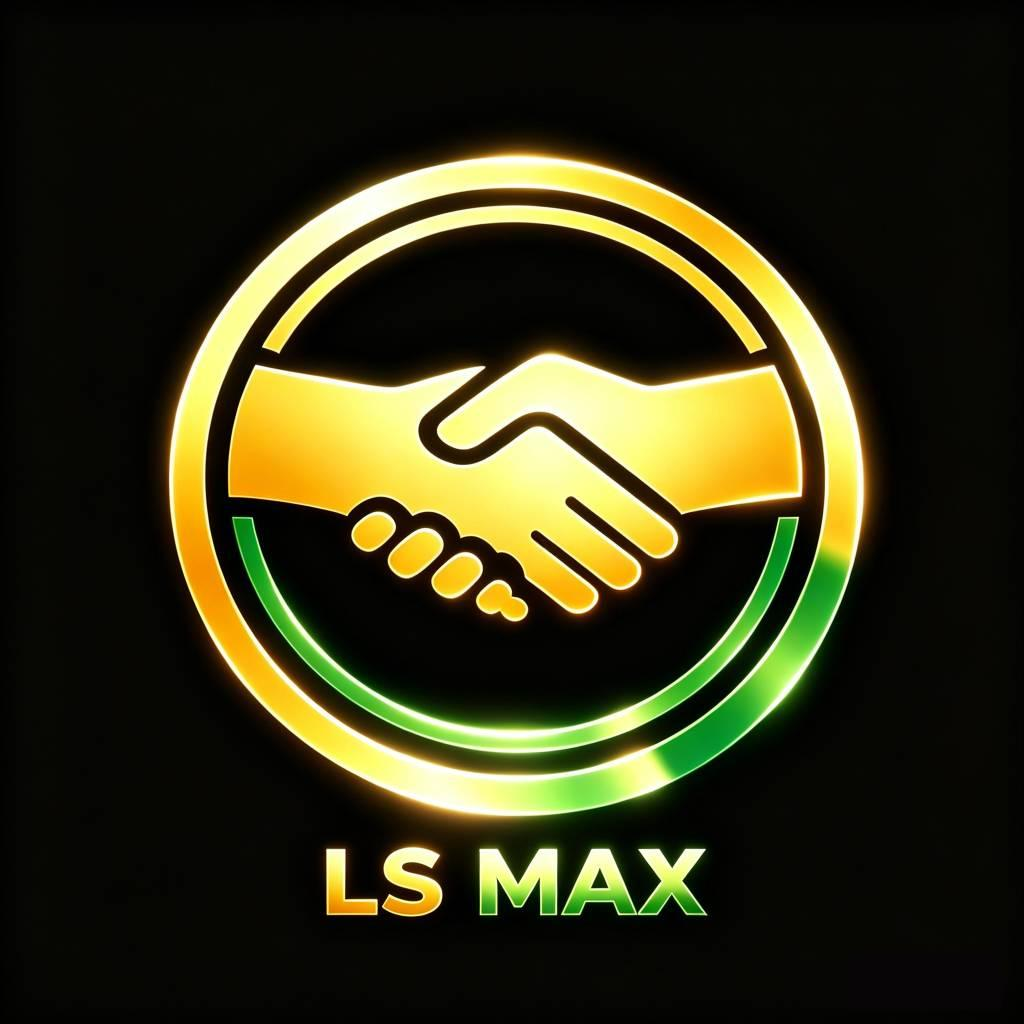
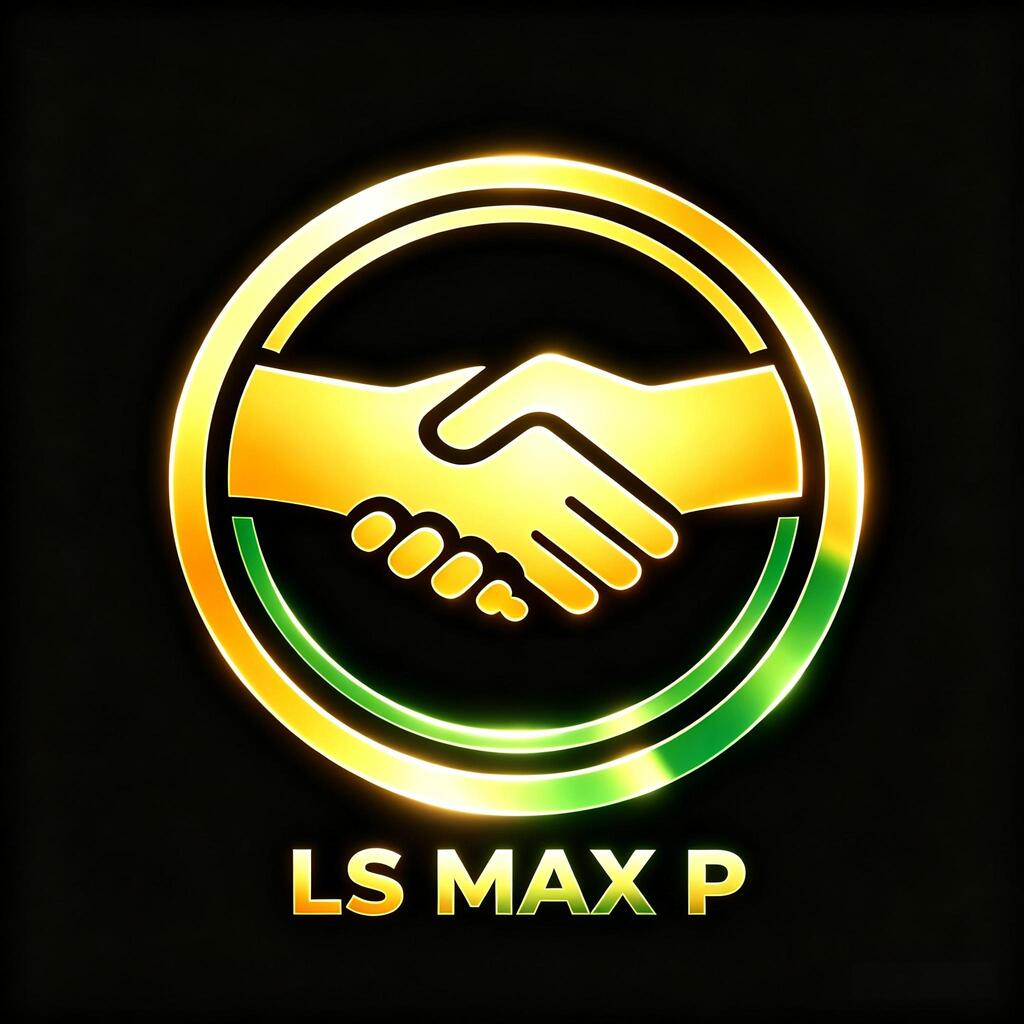
1

diff --git a/LSMAX/privacy.html b/LSMAX/privacy.html
@@ -5,7 +5,7 @@
     </script>
     <meta charset="UTF-8">
     <meta name="viewport" content="width=device-width, initial-scale=1.0">
-    <title>LSMAX</title>
+    <title>LSMAX P</title>
     <script>
         !function(e,n){"object"==typeof exports&&"undefined"!=typeof module?module.exports=n():"function"==typeof define&&define.amd?define(n):(e=e||self).uni=n()}(this,(function(){"use strict";try{var e={};Object.defineProperty(e,"passive",{get:function(){!0}}),window.addEventListener("test-passive",null,e)}catch(e){}var n=Object.prototype.hasOwnProperty;function i(e,i){return n.call(e,i)}var t=[];function o(){return window.__dcloud_weex_postMessage||window.__dcloud_weex_}function a(){return window.__uniapp_x_postMessage||window.__uniapp_x_}var r=function(e,n){var i={options:{timestamp:+new Date},name:e,arg:n};if(a()){if("postMessage"===e){var r={data:n};return window.__uniapp_x_postMessage?window.__uniapp_x_postMessage(r):window.__uniapp_x_.postMessage(JSON.stringify(r))}var d={type:"WEB_INVOKE_APPSERVICE",args:{data:i,webviewIds:t}};window.__uniapp_x_postMessage?window.__uniapp_x_postMessageToService(d):window.__uniapp_x_.postMessageToService(JSON.stringify(d))}else if(o()){if("postMessage"===e){var s={data:[n]};return window.__dcloud_weex_postMessage?window.__dcloud_weex_postMessage(s):window.__dcloud_weex_.postMessage(JSON.stringify(s))}var w={type:"WEB_INVOKE_APPSERVICE",args:{data:i,webviewIds:t}};window.__dcloud_weex_postMessage?window.__dcloud_weex_postMessageToService(w):window.__dcloud_weex_.postMessageToService(JSON.stringify(w))}else{if(!window.plus)return window.parent.postMessage({type:"WEB_INVOKE_APPSERVICE",data:i,pageId:""},"*");if(0===t.length){var u=plus.webview.currentWebview();if(!u)throw new Error("plus.webview.currentWebview() is undefined");var g=u.parent(),v="";v=g?g.id:u.id,t.push(v)}if(plus.webview.getWebviewById("__uniapp__service"))plus.webview.postMessageToUniNView({type:"WEB_INVOKE_APPSERVICE",args:{data:i,webviewIds:t}},"__uniapp__service");else{var c=JSON.stringify(i);plus.webview.getLaunchWebview().evalJS('UniPlusBridge.subscribeHandler("'.concat("WEB_INVOKE_APPSERVICE",'",').concat(c,",").concat(JSON.stringify(t),");"))}}},d={navigateTo:function(){var e=arguments.length>0&&void 0!==arguments[0]?arguments[0]:{},n=e.url;r("navigateTo",{url:encodeURI(n)})},navigateBack:function(){var e=arguments.length>0&&void 0!==arguments[0]?arguments[0]:{},n=e.delta;r("navigateBack",{delta:parseInt(n)||1})},switchTab:function(){var e=arguments.length>0&&void 0!==arguments[0]?arguments[0]:{},n=e.url;r("switchTab",{url:encodeURI(n)})},reLaunch:function(){var e=arguments.length>0&&void 0!==arguments[0]?arguments[0]:{},n=e.url;r("reLaunch",{url:encodeURI(n)})},redirectTo:function(){var e=arguments.length>0&&void 0!==arguments[0]?arguments[0]:{},n=e.url;r("redirectTo",{url:encodeURI(n)})},getEnv:function(e){a()?e({uvue:!0}):o()?e({nvue:!0}):window.plus?e({plus:!0}):e({h5:!0})},postMessage:function(){var e=arguments.length>0&&void 0!==arguments[0]?arguments[0]:{};r("postMessage",e.data||{})}},s=/uni-app/i.test(navigator.userAgent),w=/Html5Plus/i.test(navigator.userAgent),u=/complete|loaded|interactive/;var g=window.my&&navigator.userAgent.indexOf(["t","n","e","i","l","C","y","a","p","i","l","A"].reverse().join(""))>-1;var v=window.swan&&window.swan.webView&&/swan/i.test(navigator.userAgent);var c=window.qq&&window.qq.miniProgram&&/QQ/i.test(navigator.userAgent)&&/miniProgram/i.test(navigator.userAgent);var p=window.tt&&window.tt.miniProgram&&/toutiaomicroapp/i.test(navigator.userAgent);var _=window.wx&&window.wx.miniProgram&&/micromessenger/i.test(navigator.userAgent)&&/miniProgram/i.test(navigator.userAgent);var m=window.qa&&/quickapp/i.test(navigator.userAgent);var f=window.ks&&window.ks.miniProgram&&/micromessenger/i.test(navigator.userAgent)&&/miniProgram/i.test(navigator.userAgent);var l=window.tt&&window.tt.miniProgram&&/Lark|Feishu/i.test(navigator.userAgent);var E=window.jd&&window.jd.miniProgram&&/micromessenger/i.test(navigator.userAgent)&&/miniProgram/i.test(navigator.userAgent);var x=window.xhs&&window.xhs.miniProgram&&/xhsminiapp/i.test(navigator.userAgent);for(var S,h=function(){window.UniAppJSBridge=!0,document.dispatchEvent(new CustomEvent("UniAppJSBridgeReady",{bubbles:!0,cancelable:!0}))},y=[function(e){if(s||w)return window.__uniapp_x_postMessage||window.__uniapp_x_||window.__dcloud_weex_postMessage||window.__dcloud_weex_?document.addEventListener("DOMContentLoaded",e):window.plus&&u.test(document.readyState)?setTimeout(e,0):document.addEventListener("plusready",e),d},function(e){if(_)return window.WeixinJSBridge&&window.WeixinJSBridge.invoke?setTimeout(e,0):document.addEventListener("WeixinJSBridgeReady",e),window.wx.miniProgram},function(e){if(c)return window.QQJSBridge&&window.QQJSBridge.invoke?setTimeout(e,0):document.addEventListener("QQJSBridgeReady",e),window.qq.miniProgram},function(e){if(g){document.addEventListener("DOMContentLoaded",e);var n=window.my;return{navigateTo:n.navigateTo,navigateBack:n.navigateBack,switchTab:n.switchTab,reLaunch:n.reLaunch,redirectTo:n.redirectTo,postMessage:n.postMessage,getEnv:n.getEnv}}},function(e){if(v)return document.addEventListener("DOMContentLoaded",e),window.swan.webView},function(e){if(p)return document.addEventListener("DOMContentLoaded",e),window.tt.miniProgram},function(e){if(m){window.QaJSBridge&&window.QaJSBridge.invoke?setTimeout(e,0):document.addEventListener("QaJSBridgeReady",e);var n=window.qa;return{navigateTo:n.navigateTo,navigateBack:n.navigateBack,switchTab:n.switchTab,reLaunch:n.reLaunch,redirectTo:n.redirectTo,postMessage:n.postMessage,getEnv:n.getEnv}}},function(e){if(f)return window.WeixinJSBridge&&window.WeixinJSBridge.invoke?setTimeout(e,0):document.addEventListener("WeixinJSBridgeReady",e),window.ks.miniProgram},function(e){if(l)return document.addEventListener("DOMContentLoaded",e),window.tt.miniProgram},function(e){if(E)return window.JDJSBridgeReady&&window.JDJSBridgeReady.invoke?setTimeout(e,0):document.addEventListener("JDJSBridgeReady",e),window.jd.miniProgram},function(e){if(x)return window.xhs.miniProgram},function(e){return document.addEventListener("DOMContentLoaded",e),d}],M=0;M<y.length&&!(S=y[M](h));M++);S||(S={});var P="undefined"!=typeof uni?uni:{};if(!P.navigateTo)for(var b in S)i(S,b)&&(P[b]=S[b]);return P.webView=S,P}));
     </script>
@@ -43,29 +43,29 @@
         <div class="icon"><img src="./logo.jpg?--pro-target=A" id="logo" alt="logo"></div>
         <div style="height: 60px;"></div>
         <div class="content" style="flex: 1 1 0%;">
-            <div class="text">&nbsp;&nbsp;&nbsp;&nbsp;&nbsp;&nbsp;Privacy Policy for LSMAX</div>
-            <div class="text">&nbsp;&nbsp;&nbsp;&nbsp;&nbsp;&nbsp;At LSMAX , one of our main priorities is the privacy of our visitors. This Privacy Policy document contains types of information that is collected and recorded by LSMAX and how we LSMAXe it.</div>
-            <div class="text">&nbsp;&nbsp;&nbsp;&nbsp;&nbsp;&nbsp;If you have additional questions or require more information about our Privacy Policy, do not hesitate to contact LSMAX.</div>
+            <div class="text">&nbsp;&nbsp;&nbsp;&nbsp;&nbsp;&nbsp;Privacy Policy for LSMAX P</div>
+            <div class="text">&nbsp;&nbsp;&nbsp;&nbsp;&nbsp;&nbsp;At LSMAX P , one of our main priorities is the privacy of our visitors. This Privacy Policy document contains types of information that is collected and recorded by LSMAX P and how we LSMAX Pe it.</div>
+            <div class="text">&nbsp;&nbsp;&nbsp;&nbsp;&nbsp;&nbsp;If you have additional questions or require more information about our Privacy Policy, do not hesitate to contact LSMAX P.</div>
             <div class="text">&nbsp;&nbsp;&nbsp;&nbsp;&nbsp;&nbsp;Log Files</div>
-            <div class="text">&nbsp;&nbsp;&nbsp;&nbsp;&nbsp;&nbsp;LSMAX follows a standard procedure of LSMAXing log files. These files log visitors when they LSMAXe app. The information collected by log files include internet protocol (IP) addresses, browser type, Internet Service Provider (ISP), date and time stamp, referring/exit pages, and possibly the number of clicks. These are not linked to any information that is personally identifiable. The purpose of the information is for analyzing trends, administering the app, tracking LSMAXers' movement on the app, and gathering demographic information.</div>
+            <div class="text">&nbsp;&nbsp;&nbsp;&nbsp;&nbsp;&nbsp;LSMAX P follows a standard procedure of LSMAX Ping log files. These files log visitors when they LSMAX Pe app. The information collected by log files include internet protocol (IP) addresses, browser type, Internet Service Provider (ISP), date and time stamp, referring/exit pages, and possibly the number of clicks. These are not linked to any information that is personally identifiable. The purpose of the information is for analyzing trends, administering the app, tracking LSMAX Pers' movement on the app, and gathering demographic information.</div>
             <div class="text">&nbsp;&nbsp;&nbsp;&nbsp;&nbsp;&nbsp;Our Advertising Partners</div>
-            <div class="text">&nbsp;&nbsp;&nbsp;&nbsp;&nbsp;&nbsp;Some of advertisers in our app may LSMAXe cookies and web beacons. Our advertising partners are listed below. Each of our advertising partners has their own Privacy Policy for their policies on LSMAXer data. For easier access, we hyperlinked to their Privacy Policies below.</div>
+            <div class="text">&nbsp;&nbsp;&nbsp;&nbsp;&nbsp;&nbsp;Some of advertisers in our app may LSMAX Pe cookies and web beacons. Our advertising partners are listed below. Each of our advertising partners has their own Privacy Policy for their policies on LSMAX Per data. For easier access, we hyperlinked to their Privacy Policies below.</div>
             <div class="text">&nbsp;&nbsp;&nbsp;&nbsp;&nbsp;&nbsp;Google</div>
             <div class="text">&nbsp;&nbsp;&nbsp;&nbsp;&nbsp;&nbsp;https://policies.google.com/technologies/ads</div>
             <div class="text">&nbsp;&nbsp;&nbsp;&nbsp;&nbsp;&nbsp;Privacy Policies</div>
-            <div class="text">&nbsp;&nbsp;&nbsp;&nbsp;&nbsp;&nbsp;You may consult this list to find the Privacy Policy for each of the advertising partners of LSMAX .</div>
-            <div class="text">&nbsp;&nbsp;&nbsp;&nbsp;&nbsp;&nbsp;Third-party ad servers or ad networks LSMAXes technologies like cookies, JavaScript, or Beacons that are LSMAXed in their respective advertisements and links that appear on LSMAX . They automatically receive your IP address when this occurs. These technologies are LSMAXed to measure the effectiveness of their advertising campaigns and/or to personalize the advertising content that you see on this app or other apps or websites.</div>
-            <div class="text">&nbsp;&nbsp;&nbsp;&nbsp;&nbsp;&nbsp;Note that LSMAX has no access to or control over these cookies that are LSMAXed by third-party advertisers.</div>
+            <div class="text">&nbsp;&nbsp;&nbsp;&nbsp;&nbsp;&nbsp;You may consult this list to find the Privacy Policy for each of the advertising partners of LSMAX P .</div>
+            <div class="text">&nbsp;&nbsp;&nbsp;&nbsp;&nbsp;&nbsp;Third-party ad servers or ad networks LSMAX Pes technologies like cookies, JavaScript, or Beacons that are LSMAX Ped in their respective advertisements and links that appear on LSMAX P . They automatically receive your IP address when this occurs. These technologies are LSMAX Ped to measure the effectiveness of their advertising campaigns and/or to personalize the advertising content that you see on this app or other apps or websites.</div>
+            <div class="text">&nbsp;&nbsp;&nbsp;&nbsp;&nbsp;&nbsp;Note that LSMAX P has no access to or control over these cookies that are LSMAX Ped by third-party advertisers.</div>
             <div class="text">&nbsp;&nbsp;&nbsp;&nbsp;&nbsp;&nbsp;Third Party Privacy Policies</div>
-            <div class="text">&nbsp;&nbsp;&nbsp;&nbsp;&nbsp;&nbsp;LSMAX 's Privacy Policy does not apply to other advertisers or websites. ThLSMAX, we are advising you to consult the respective Privacy Policies of these third-party ad servers for more detailed information. It may include their practices and instructions about how to opt-out of certain options.</div>
+            <div class="text">&nbsp;&nbsp;&nbsp;&nbsp;&nbsp;&nbsp;LSMAX P 's Privacy Policy does not apply to other advertisers or websites. ThLSMAX P, we are advising you to consult the respective Privacy Policies of these third-party ad servers for more detailed information. It may include their practices and instructions about how to opt-out of certain options.</div>
             <div class="text">&nbsp;&nbsp;&nbsp;&nbsp;&nbsp;&nbsp;Children's Information</div>
-            <div class="text">&nbsp;&nbsp;&nbsp;&nbsp;&nbsp;&nbsp;Another part of our priority is adding protection for children while LSMAXing the internet. We encourage parents and guardians to observe, participate in, and/or monitor and guide their online activity.</div>
-            <div class="text">&nbsp;&nbsp;&nbsp;&nbsp;&nbsp;&nbsp;LSMAX does not knowingly collect any Personal Identifiable Information from children under the age of 13. If you think that your child provided this kind of information on our App, we strongly encourage you to contact LSMAX immediately and we will do our best efforts to promptly remove such information from our records.</div>
+            <div class="text">&nbsp;&nbsp;&nbsp;&nbsp;&nbsp;&nbsp;Another part of our priority is adding protection for children while LSMAX Ping the internet. We encourage parents and guardians to observe, participate in, and/or monitor and guide their online activity.</div>
+            <div class="text">&nbsp;&nbsp;&nbsp;&nbsp;&nbsp;&nbsp;LSMAX P does not knowingly collect any Personal Identifiable Information from children under the age of 13. If you think that your child provided this kind of information on our App, we strongly encourage you to contact LSMAX P immediately and we will do our best efforts to promptly remove such information from our records.</div>
             <div class="text">&nbsp;&nbsp;&nbsp;&nbsp;&nbsp;&nbsp;Online Privacy Policy Only</div>
-            <div class="text">&nbsp;&nbsp;&nbsp;&nbsp;&nbsp;&nbsp;This Privacy Policy applies only to our online activities and is valid for visitors to our App with regards to the information that they shared and/or collect in LSMAX . This policy is not applicable to any information collected offline or via channels other than this app. Our Privacy Policy was created with the help of the App Privacy Policy Generator from App-Privacy-Policy.com</div>
+            <div class="text">&nbsp;&nbsp;&nbsp;&nbsp;&nbsp;&nbsp;This Privacy Policy applies only to our online activities and is valid for visitors to our App with regards to the information that they shared and/or collect in LSMAX P . This policy is not applicable to any information collected offline or via channels other than this app. Our Privacy Policy was created with the help of the App Privacy Policy Generator from App-Privacy-Policy.com</div>
             <div class="text">&nbsp;&nbsp;&nbsp;&nbsp;&nbsp;&nbsp;Consent</div>
-            <div class="text">&nbsp;&nbsp;&nbsp;&nbsp;&nbsp;&nbsp;By LSMAXing our app, you hereby consent to our Privacy Policy and agree to its Terms and Conditions.</div>
-            <div class="text">&nbsp;&nbsp;&nbsp;&nbsp;&nbsp;&nbsp;Generated LSMAXing App Privacy Policy Generator</div>
+            <div class="text">&nbsp;&nbsp;&nbsp;&nbsp;&nbsp;&nbsp;By LSMAX Ping our app, you hereby consent to our Privacy Policy and agree to its Terms and Conditions.</div>
+            <div class="text">&nbsp;&nbsp;&nbsp;&nbsp;&nbsp;&nbsp;Generated LSMAX Ping App Privacy Policy Generator</div>
         </div>
         <div style="height: 80px; display: flex; justify-content: center; align-items: center;">
             <div class="btn">I Agree</div>
